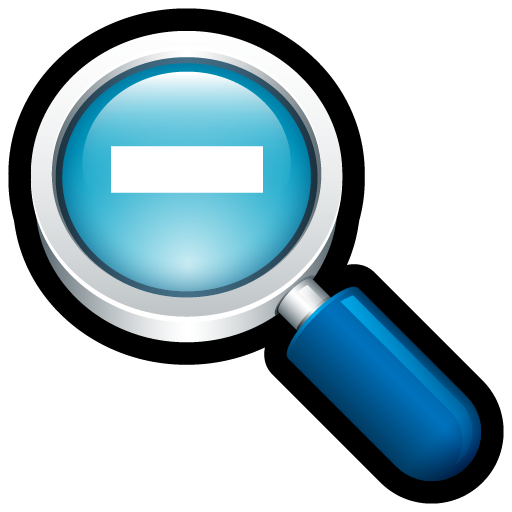
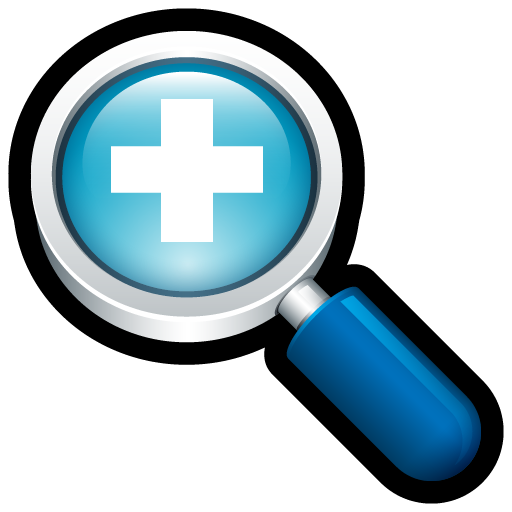
fpsMainWindow: New UI feature - Zooming in & Zooming out are now supported. - Add Actions in GUI, which are disabled by default, enabled when a picture is opened.

Changed region(s): [[0.3125, 0.375, 0.4375, 0.5], [0.3125, 0.1875, 0.4375, 0.3125]]

diff --git a/src/fpsmainwindow.cpp b/src/fpsmainwindow.cpp
@@ -72,6 +72,10 @@ void fpsMainWindow::on_actionOpen_triggered()
                                    QString::number(static_cast<int>(m_originalImage.dotsPerMeterX() * 0.0254)) + " dpi");
                                    
         ui->btnReset->setEnabled(true);
+        ui->actionZoomIn->setEnabled(true);
+        ui->actionZoomIn->setIcon(QIcon(":/toolBar/toolBar/zoom-in.png"));
+        ui->actionZoomOut->setEnabled(true);
+        ui->actionZoomOut->setIcon(QIcon(":/toolBar/toolBar/zoom-out.png"));
         ui->sbxCols->setRange(1, m_originalImage.width());
         ui->sbxRows->setRange(1, m_originalImage.height());
         ui->sbxHeight->setRange(1, m_originalImage.height());
@@ -226,5 +230,17 @@ void fpsMainWindow::on_rbtnAver_toggled(bool checked)
         ui->sbxHeight->setEnabled(false);
         ui->sbxWidth->setEnabled(false);
     }
+}
+
+
+void fpsMainWindow::on_actionZoomIn_triggered()
+{
+    ui->graphicsView->zoomIn();
+}
+
+
+void fpsMainWindow::on_actionZoomOut_triggered()
+{
+    ui->graphicsView->zoomOut();
 }
 

diff --git a/src/fpsmainwindow.h b/src/fpsmainwindow.h
@@ -49,6 +49,10 @@ private slots:
 
     void on_rbtnAver_toggled(bool checked);
 
+    void on_actionZoomIn_triggered();
+
+    void on_actionZoomOut_triggered();
+
 private:
     Ui::fpsMainWindow *ui;
     fpsBatchDialog *m_batchDlg;
